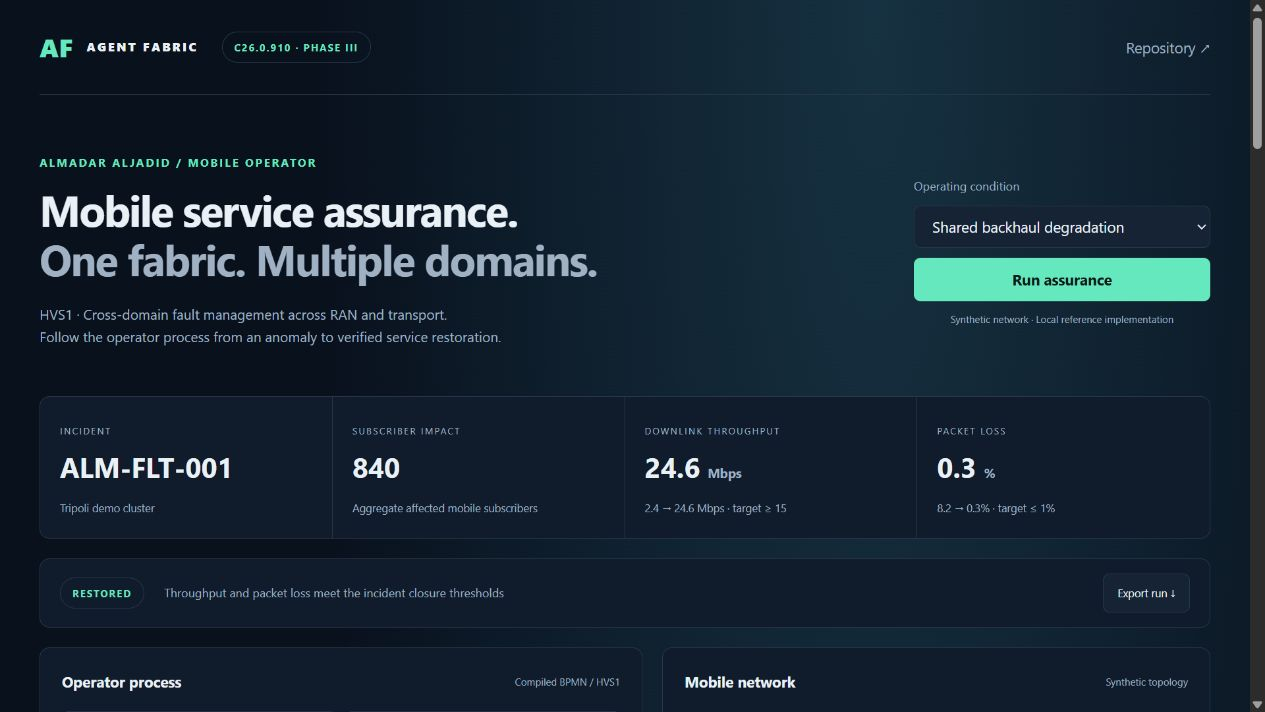
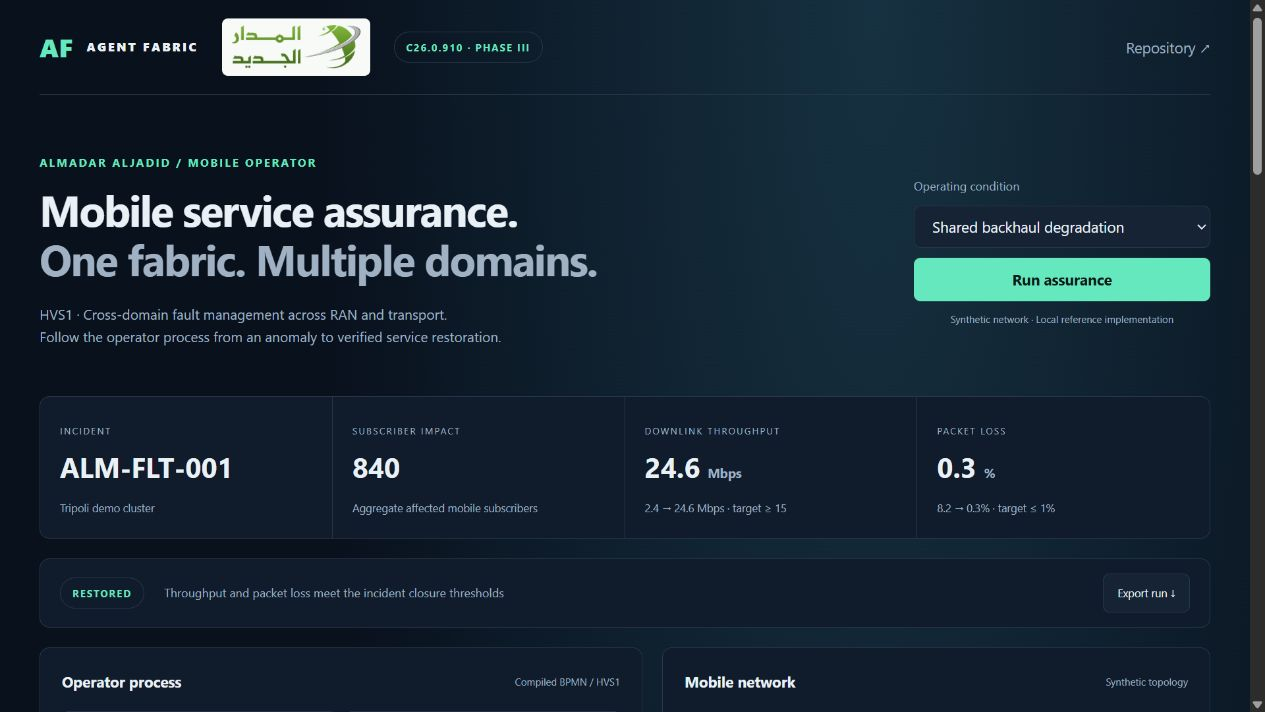
Refresh the assurance walkthrough with Almadar branding

Changed region(s): [[0.1542, 0.0, 0.4316, 0.1236], [0.9866, 0.1854, 1.0, 0.2472]]

diff --git a/almadar_fabric/web/style.css b/almadar_fabric/web/style.css
@@ -432,5 +432,5 @@ footer {
   }
 }
 
-.operator-logo { width: 130px; height: 45px; object-fit: contain; flex-shrink: 0; }
+.operator-logo { width: 150px; height: 58px; object-fit: contain; flex-shrink: 0; background: #f8faf8; padding: 6px 10px; border-radius: 6px; }
 @media (max-width: 600px) { header { gap: 12px; } .brand span { display: none; } .operator-logo { width: 110px; } }
